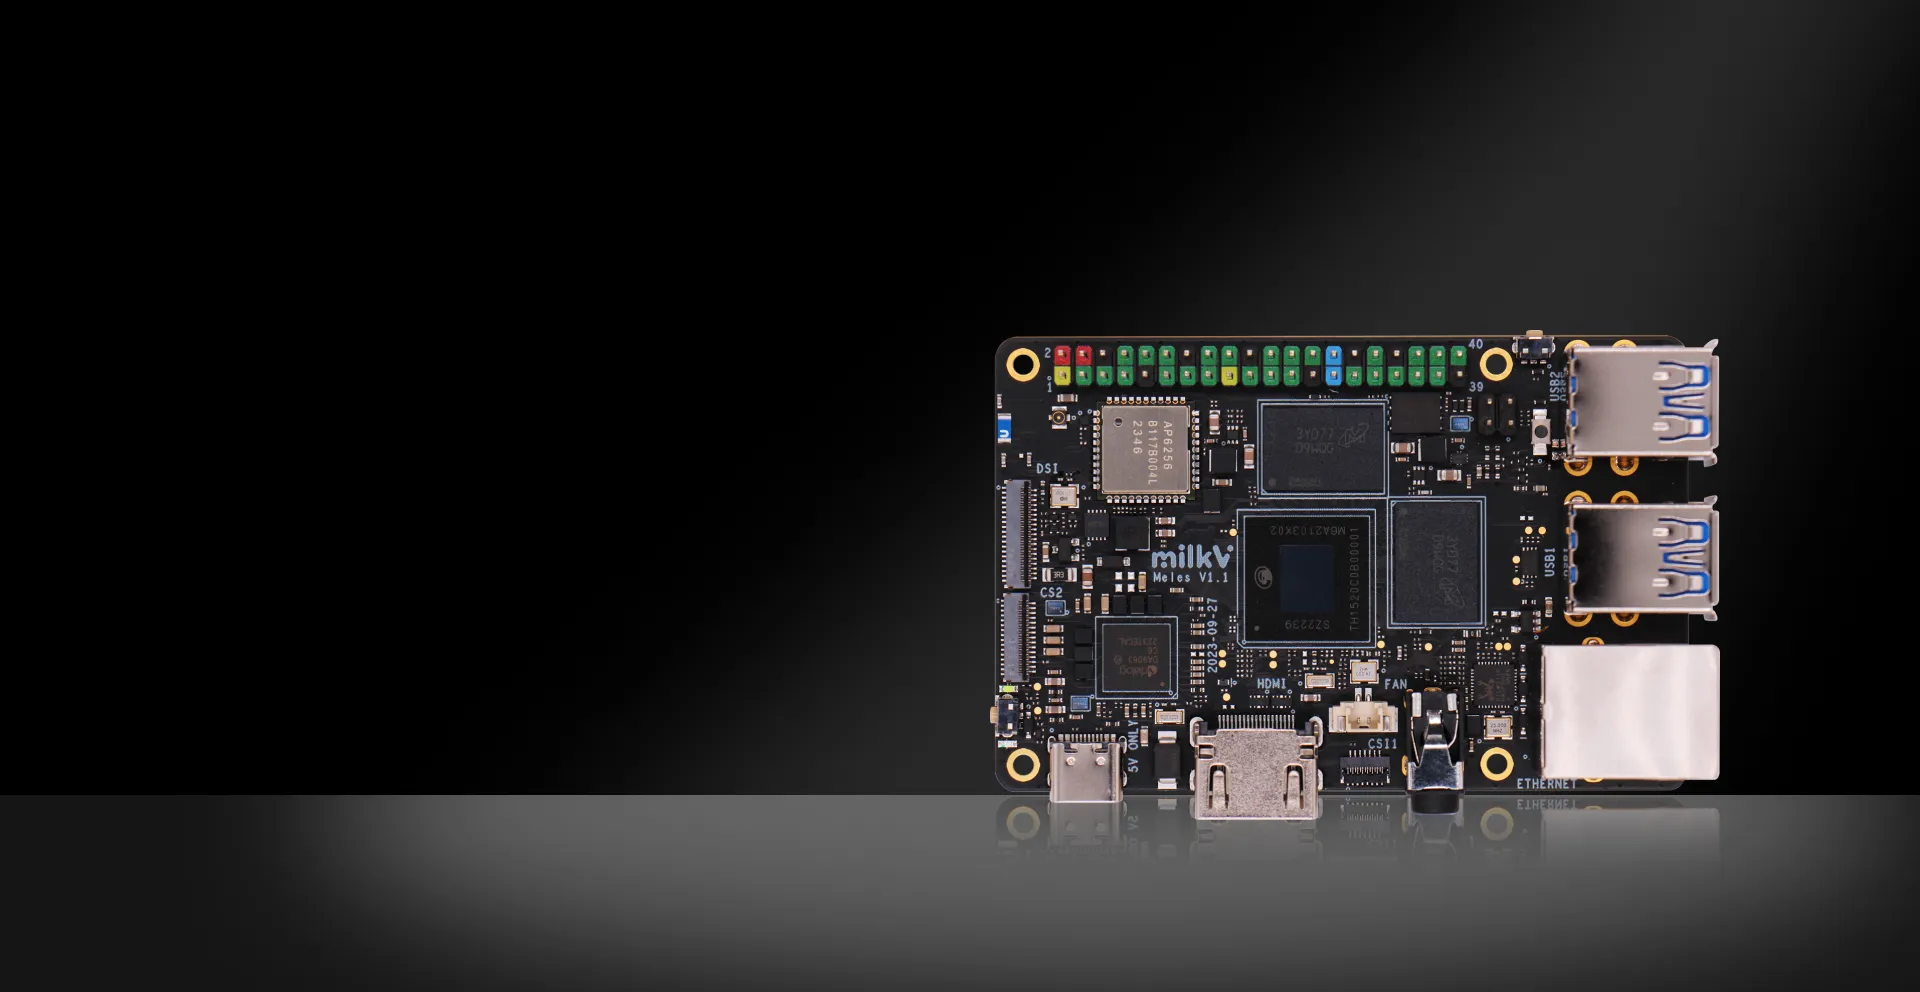
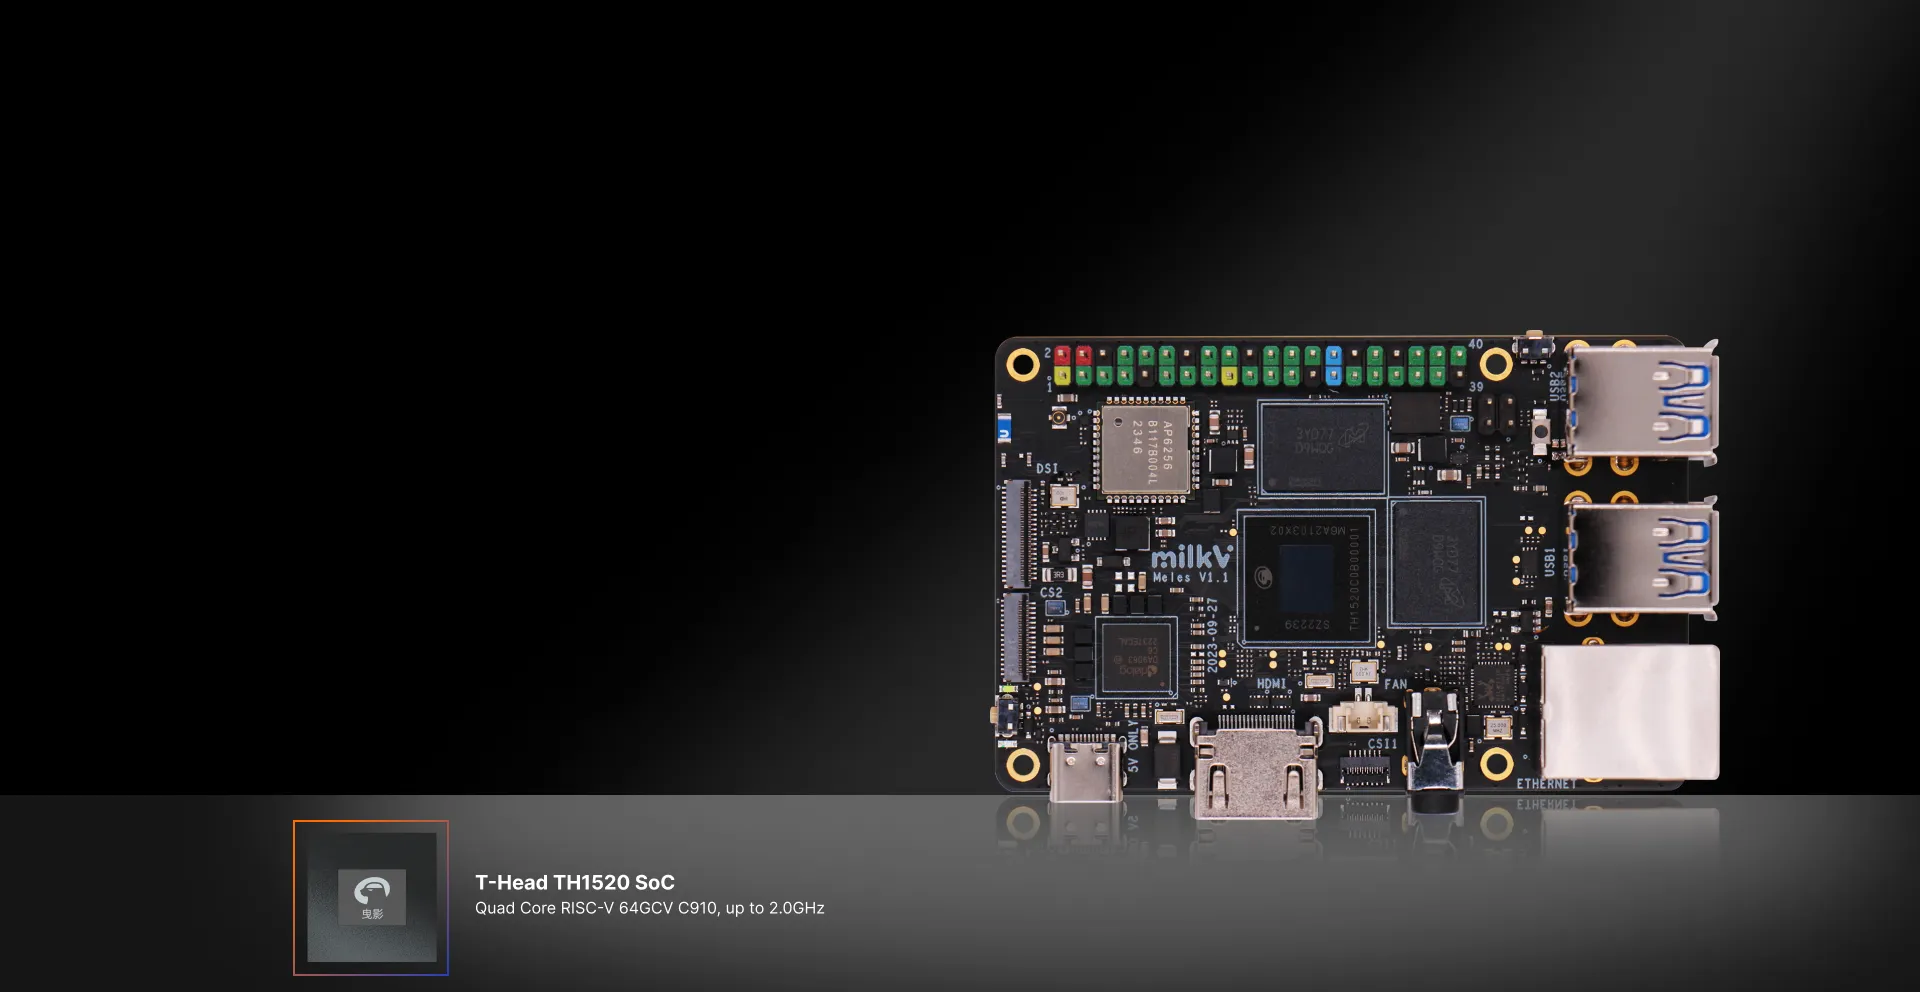
pref: meles replaced the latest front view

Changed region(s): [[0.1562, 0.8125, 0.25, 0.9688], [0.25, 0.875, 0.4375, 0.9375]]

diff --git a/src/pages/meles/index.js b/src/pages/meles/index.js
@@ -20,13 +20,13 @@ export default () => {
                         <Translate id='Buy.now' />
                     </Link>
                 </div>
-                <div className={styles.titleIcons}>
+                {/* <div className={styles.titleIcons}>
                     <img src="/meles/iconThead.svg" alt="平头哥" />
                     <div>
                         <h3>T-Head TH1520 SoC</h3>
                         <p>Quad Core RISC-V 64GCV C910, up to 2.0GHz</p>
                     </div>
-                </div>
+                </div> */}
             </div>
             <div className={styles.bgColor}>
                 <div className={styles.tHeadSoC}>
